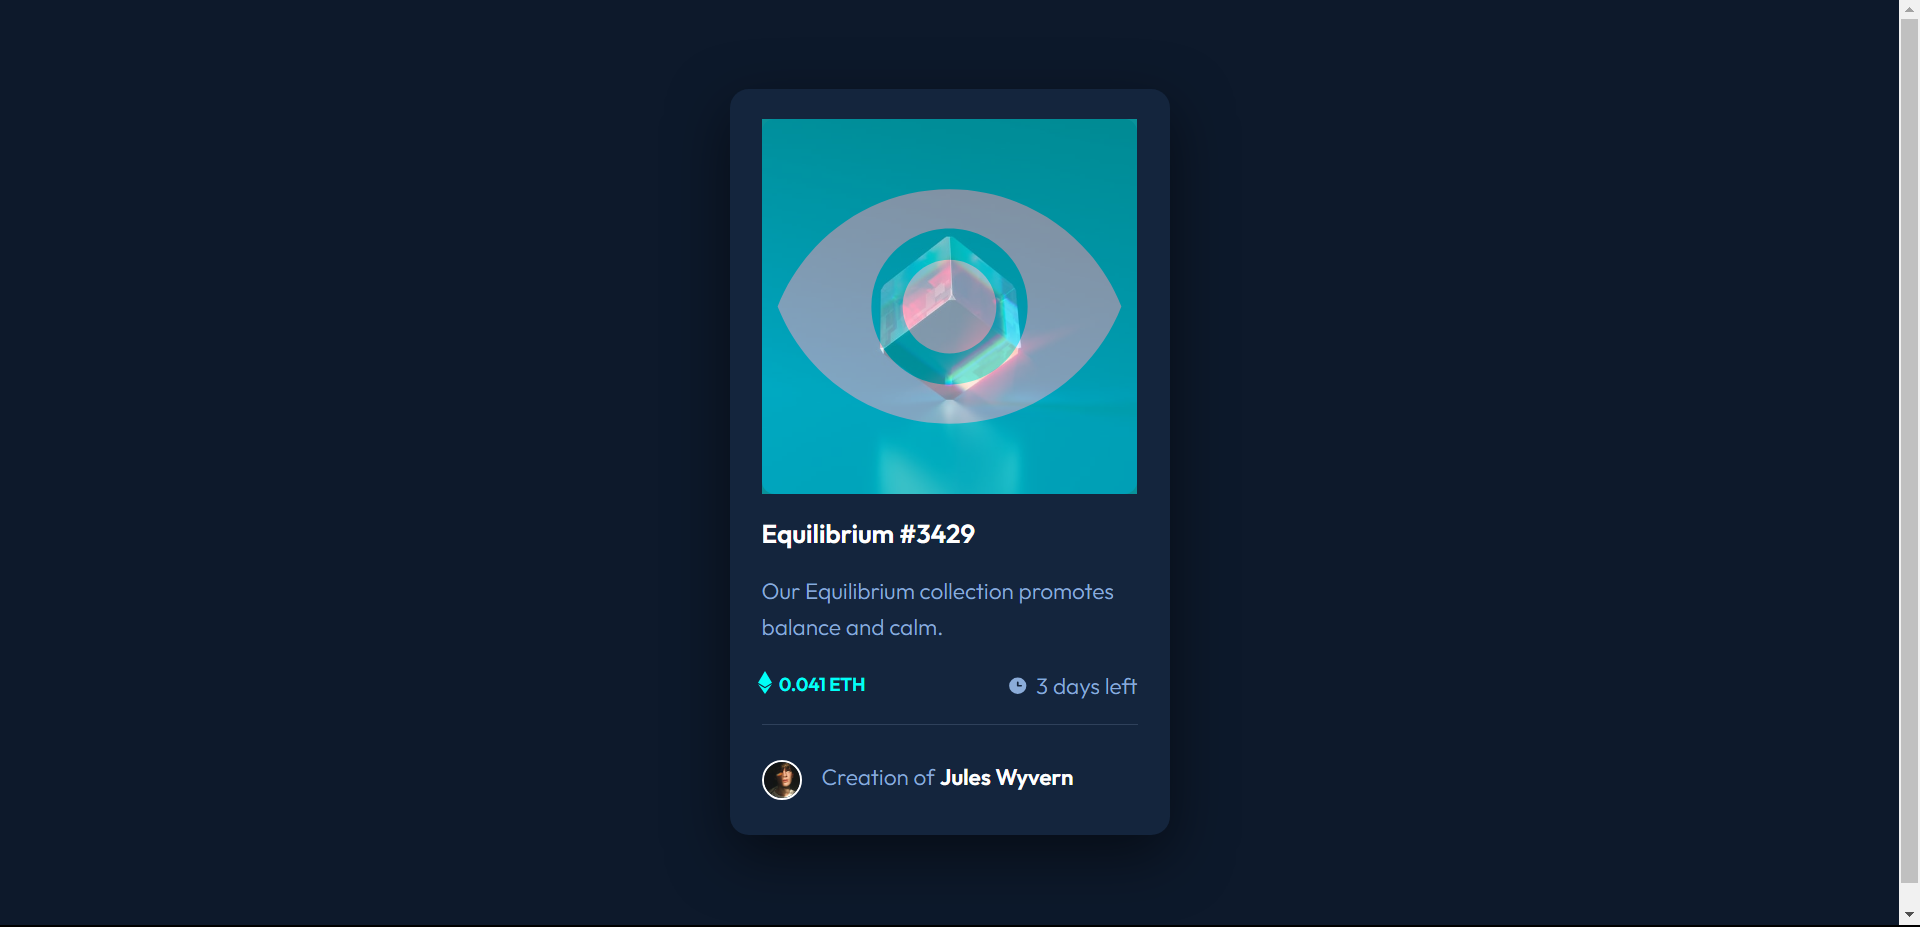
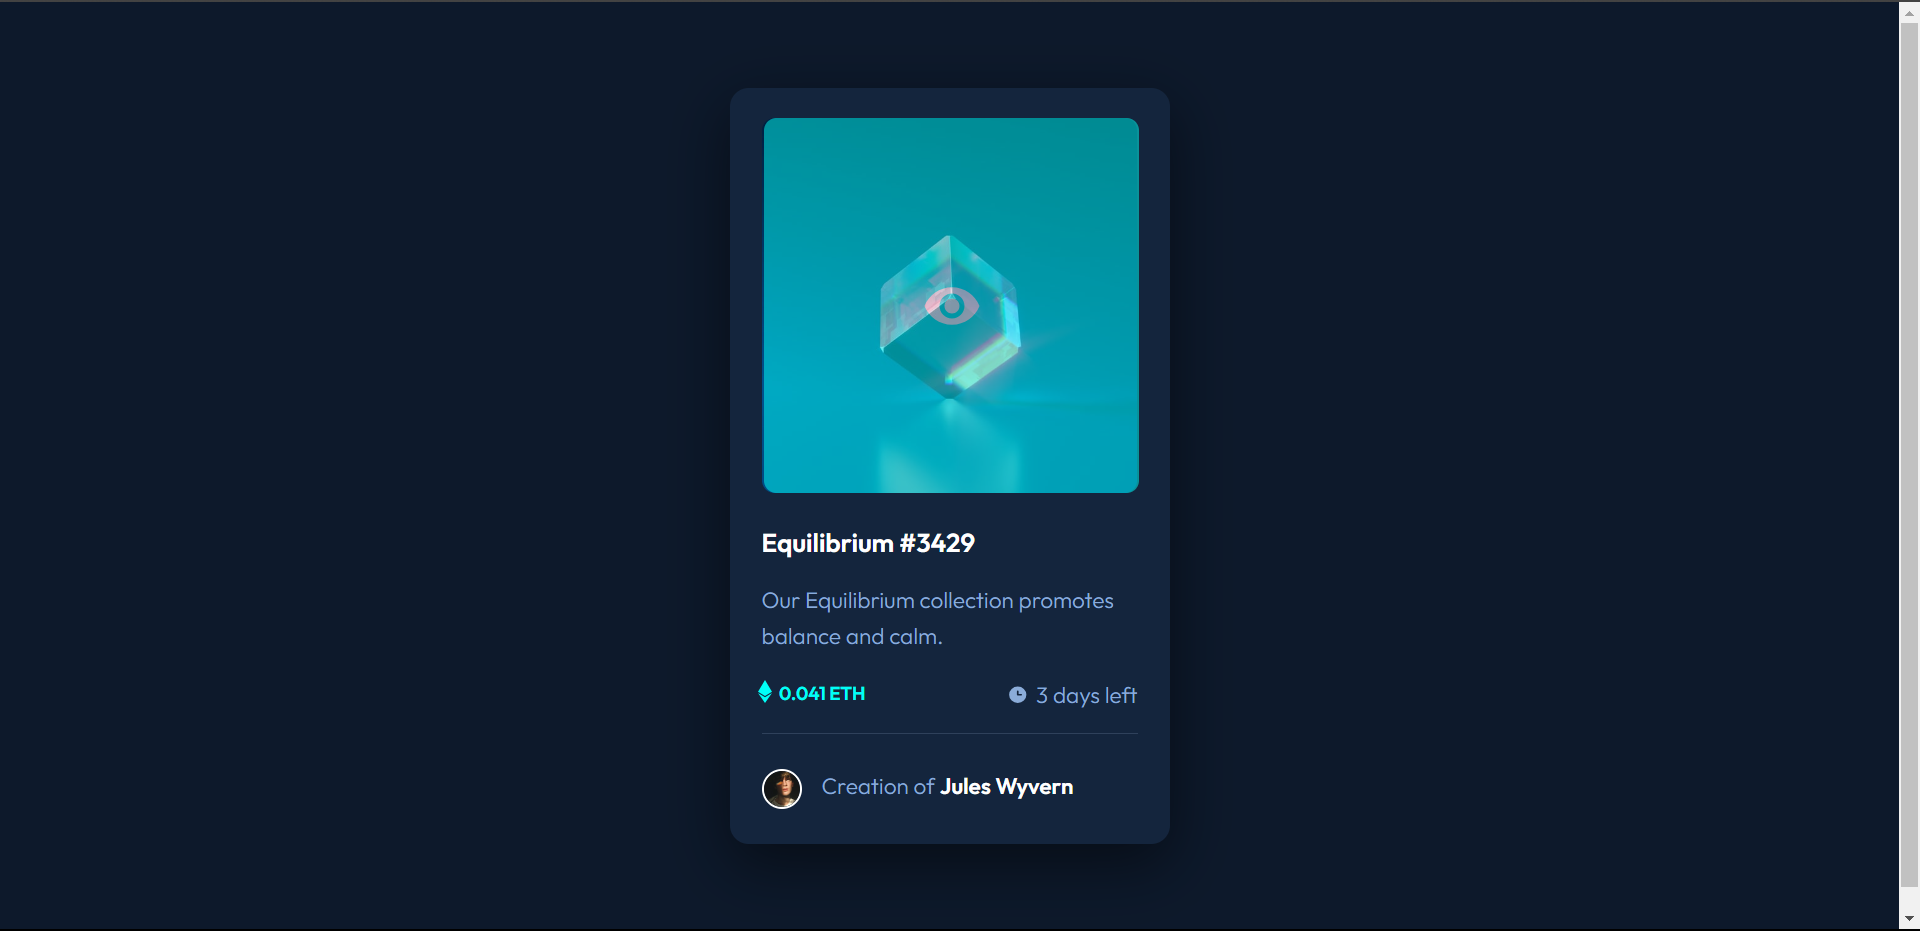
changed files content

diff --git a/index.css b/index.css
@@ -53,36 +53,34 @@ body {
 }
 
 /*images-container*/
-.overlay--main_image {
-    position: relative;
-    max-width: 300px;
-    width: 100%;
-}
 
 
 /*top-image*/
 .main-image {
-    display: block;
-    width: 100%;
+    width: 300px;
+    background: url('images/icon-view.svg') center center no-repeat;
+    background-color:  var(--cyan);
+    background-size: cover;
+    margin: auto;
     border-radius: 10px;
-    margin: 0 auto;
-    height: auto;
 }
 
 
 /*overlay-eye-image*/
-.overlay {
+.icon-overlay {
+    display: flex;
+    justify-content: center;
+    align-items: center;
     position: absolute;
-    top: 0;
-    left: 0;
-    right: 0;
+    top: 5.8rem;
     bottom: 0;
-    height: 100%;
-    width: 100%;
+    left: 38.2rem;
+    right: 0;
     opacity: 0;
+    width: 300px;
+    height: 300px;
+    border-radius: 10px;
     background-color: var(--cyan);
-
-        
 }
 
 
@@ -163,7 +161,7 @@ body {
 
 
 /*effects--active-states*/
-.overlay--main_image:hover .overlay {
+.icon-overlay:hover {
     cursor: pointer;
     opacity: 0.5;
 }

diff --git a/index.html b/index.html
@@ -19,10 +19,11 @@
   <div class="card">
 
     <div class="h-p"> <!--top-card__image-h1-paragraph-->
-
-      <div class="overlay--main_image">
-        <img class="overlay" src="images/icon-view.svg" alt="eye-icon view">
-        <img class="main-image" src="images/image-equilibrium.jpg" alt="card-main Equilibrium-image">
+      
+      <img class="main-image" src="images/image-equilibrium.jpg" alt="card-main Equilibrium-image">
+      
+      <div class="icon-overlay">
+        <img class="overlay-view" src="images/icon-view.svg" alt="eye-icon view">
       </div>  
 
         <h1 class="fw-600">Equilibrium #3429</h1>

diff --git a/README.md b/README.md
@@ -71,17 +71,21 @@ It gived me motivation to pursue more Front-end challenges as it sharpens my ski
 }
 
 
-- /*overlay-eye-image*/
-.overlay {
+/*overlay-eye-image*/
+.icon-overlay {
+    display: flex;
+    justify-content: center;
+    align-items: center;
     position: absolute;
-    top: 0;
-    left: 0;
-    right: 0;
+    top: 5.8rem;
     bottom: 0;
-    height: 100%;
-    width: 100%;
+    left: 38.2rem;
+    right: 0;
     opacity: 0;
-    background-color: var(--cyan);    
+    width: 300px;
+    height: 300px;
+    border-radius: 10px;
+    background-color: var(--cyan); 
 }
 
 
